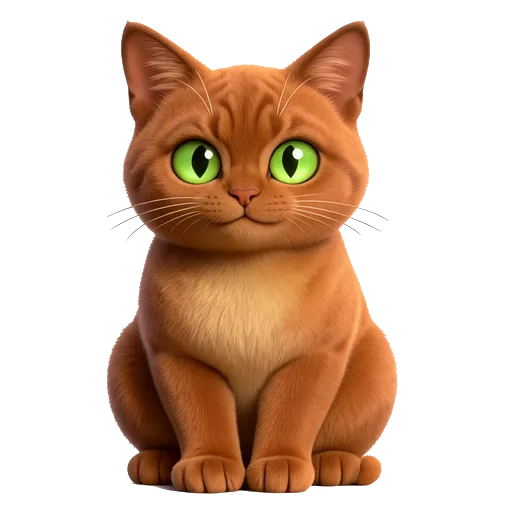
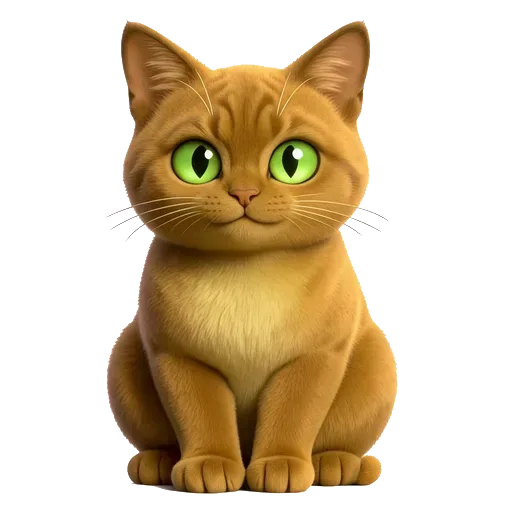
finally done with art?

Changed region(s): [[0.2812, 0.0938, 0.7812, 0.9688], [0.3125, 0.0625, 0.3438, 0.0938]]

diff --git a/docs/ai/cat-artwork-2026-10-07/progress.md b/docs/ai/cat-artwork-2026-10-07/progress.md
@@ -4,7 +4,7 @@ Supervised session, finishing the leftovers of
 [`../cat-artwork-2026-10-06/progress.md`](../cat-artwork-2026-10-06/progress.md).
 Superdesign project **"Xenocat cats"** (`b121e4aa-a80f-464b-99ef-b581b0582d0c`),
 `bytedance/seedream-5.0-lite`, 6 credits an image. The credits had reset to 100;
-11 images were generated (66 credits), **34 are left**.
+13 images were generated (78 credits), **22 are left**.
 
 ## Done
 
@@ -59,9 +59,21 @@ also re-keyed with `--hole` to clear a white patch between tail and body.
   showing) and after it, and the asleep summons of Hypno Rex, Pinball Devon,
   Laser Ocicat and Gravity Manx. Not checked at phone width.
 
+## Follow-up fixes
+
+- **Laser Ocicat asleep** came out striped, not spotted: regenerated (`263ee843`
+  → `423c9bb3-93b4-4e17-9bf7-07796e89473f`), "round thumbprint spots, like a
+  leopard or ocelot … spots only, no stripes", keyed with `--erode 2`.
+- **Pinball Devon asleep** had smaller ears than awake: regenerated (`6c0273ab`
+  → `d74a0bd6-fcea-4dda-87f5-9cfd2749d646`), "huge ears, each nearly as tall as
+  its head, standing up even while it sleeps".
+- **Gravity Manx** was orange (hue ~20°) rather than its golden ochre
+  (`#a16207`, ~40°): both poses recoloured without a generation by
+  `recolor.cjs … 12` on the keyed files (18° turned it olive). Re-key from the
+  source JPG and recolour once if they are ever rebuilt.
+
+Unit tests (`tests/unit/xenocats`) rerun after these.
+
 ## Left
 
-- Laser Ocicat asleep came out striped rather than spotted, and Pinball Devon
-  asleep has smaller ears than awake. Both read as the same cat; regenerate only
-  if they bother someone (6 credits each).
-- Gravity Manx is a deeper orange than its palette's golden ochre (`#a16207`).
+Nothing known.
